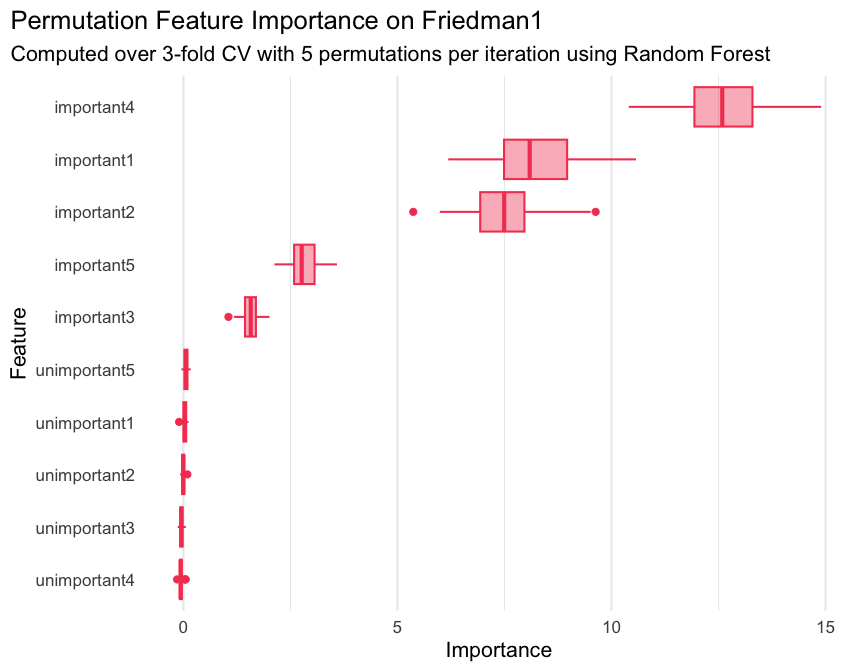
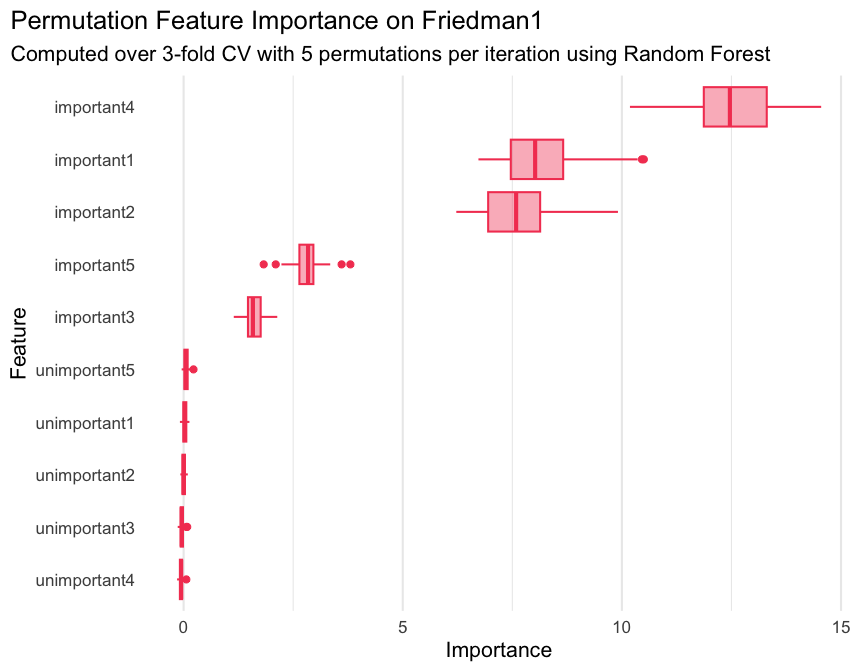
ci: update actions

diff --git a/README.md b/README.md
@@ -11,7 +11,8 @@ developed.](https://www.repostatus.org/badges/latest/active.svg)](https://www.re
 [![CRAN
 status](https://www.r-pkg.org/badges/version/xplainfi)](https://CRAN.R-project.org/package=xplainfi)
 [![R-CMD-check](https://github.com/mlr-org/xplainfi/actions/workflows/R-CMD-check.yaml/badge.svg)](https://github.com/mlr-org/xplainfi/actions/workflows/R-CMD-check.yaml)
-[![codecov](https://codecov.io/gh/mlr-org/xplainfi/graph/badge.svg?token=QIQDMP3AM7)](https://app.codecov.io/gh/mlr-org/xplainfi)
+[![Codecov test
+coverage](https://codecov.io/gh/mlr-org/xplainfi/graph/badge.svg)](https://app.codecov.io/gh/mlr-org/xplainfi)
 <!-- badges: end -->
 
 The goal of `xplainfi` is to collect common feature importance methods
@@ -84,16 +85,16 @@ pfi$importance()
 #> Key: <feature>
 #>          feature   importance
 #>           <char>        <num>
-#>  1:   important1  8.183995584
-#>  2:   important2  7.481268675
-#>  3:   important3  1.571760349
-#>  4:   important4 12.585739572
-#>  5:   important5  2.810875567
-#>  6: unimportant1  0.030667439
-#>  7: unimportant2 -0.002837696
-#>  8: unimportant3 -0.044922079
-#>  9: unimportant4 -0.060054450
-#> 10: unimportant5  0.060148388
+#>  1:   important1  8.130730121
+#>  2:   important2  7.587050771
+#>  3:   important3  1.603608069
+#>  4:   important4 12.547878920
+#>  5:   important5  2.816002479
+#>  6: unimportant1  0.026536401
+#>  7: unimportant2  0.002251584
+#>  8: unimportant3 -0.039315390
+#>  9: unimportant4 -0.057172791
+#> 10: unimportant5  0.056256867
 ```
 
 If it aids interpretation, importances can also be calculated as the
@@ -105,16 +106,16 @@ pfi$importance(relation = "ratio")
 #> Key: <feature>
 #>          feature importance
 #>           <char>      <num>
-#>  1:   important1  2.6987668
-#>  2:   important2  2.5598945
-#>  3:   important3  1.3294180
-#>  4:   important4  3.6278508
-#>  5:   important5  1.5874860
-#>  6: unimportant1  1.0067957
-#>  7: unimportant2  0.9994507
-#>  8: unimportant3  0.9905990
-#>  9: unimportant4  0.9874657
-#> 10: unimportant5  1.0126572
+#>  1:   important1  2.6880636
+#>  2:   important2  2.5822356
+#>  3:   important3  1.3366899
+#>  4:   important4  3.6191329
+#>  5:   important5  1.5878385
+#>  6: unimportant1  1.0059545
+#>  7: unimportant2  1.0004247
+#>  8: unimportant3  0.9917426
+#>  9: unimportant4  0.9881006
+#> 10: unimportant5  1.0116920
 ```
 
 When PFI is computed based on resampling with multiple iterations, and /
@@ -128,9 +129,9 @@ str(pfi$scores())
 #>  $ iter_rsmp        : int  1 1 1 1 1 1 1 1 1 1 ...
 #>  $ iter_repeat      : int  1 2 3 4 5 6 7 8 9 10 ...
 #>  $ regr.mse_baseline: num  4.56 4.56 4.56 4.56 4.56 ...
-#>  $ regr.mse_post    : num  12.3 11.9 11.3 12.1 13.6 ...
-#>  $ importance       : num  7.77 7.33 6.74 7.56 9.06 ...
-#>  - attr(*, ".internal.selfref")=<externalptr>
+#>  $ regr.mse_post    : num  12.8 12.9 12.6 12.5 11.3 ...
+#>  $ importance       : num  8.28 8.35 8.08 7.96 6.73 ...
+#>  - attr(*, ".internal.selfref")=<pointer: 0x105bd1420>
 ```
 
 Where `iter_rsmp` corresponds to the resampling iteration, i.e., 3 for
@@ -178,23 +179,23 @@ pfi = PFI$new(
     measure = msr("regr.rsq")
 )
 #> ℹ No <Resampling> provided, using `resampling = rsmp("holdout", ratio = 2/3)`
-#>   (test set size: 333)
+#> (test set size: 333)
 
 pfi$compute()
 pfi$importance()
 #> Key: <feature>
-#>          feature   importance
-#>           <char>        <num>
-#>  1:   important1  0.329915393
-#>  2:   important2  0.297695022
-#>  3:   important3  0.063613087
-#>  4:   important4  0.493673768
-#>  5:   important5  0.121794662
-#>  6: unimportant1  0.003972813
-#>  7: unimportant2  0.002157623
-#>  8: unimportant3 -0.002780577
-#>  9: unimportant4  0.001914150
-#> 10: unimportant5  0.001366645
+#>          feature    importance
+#>           <char>         <num>
+#>  1:   important1  0.3144810393
+#>  2:   important2  0.3134162904
+#>  3:   important3  0.0620583655
+#>  4:   important4  0.5415552397
+#>  5:   important5  0.1350006512
+#>  6: unimportant1 -0.0010198832
+#>  7: unimportant2  0.0010749042
+#>  8: unimportant3 -0.0021041761
+#>  9: unimportant4  0.0006529191
+#> 10: unimportant5  0.0009255579
 ```
 
 See `vignette("xplainfi")` for more examples.
